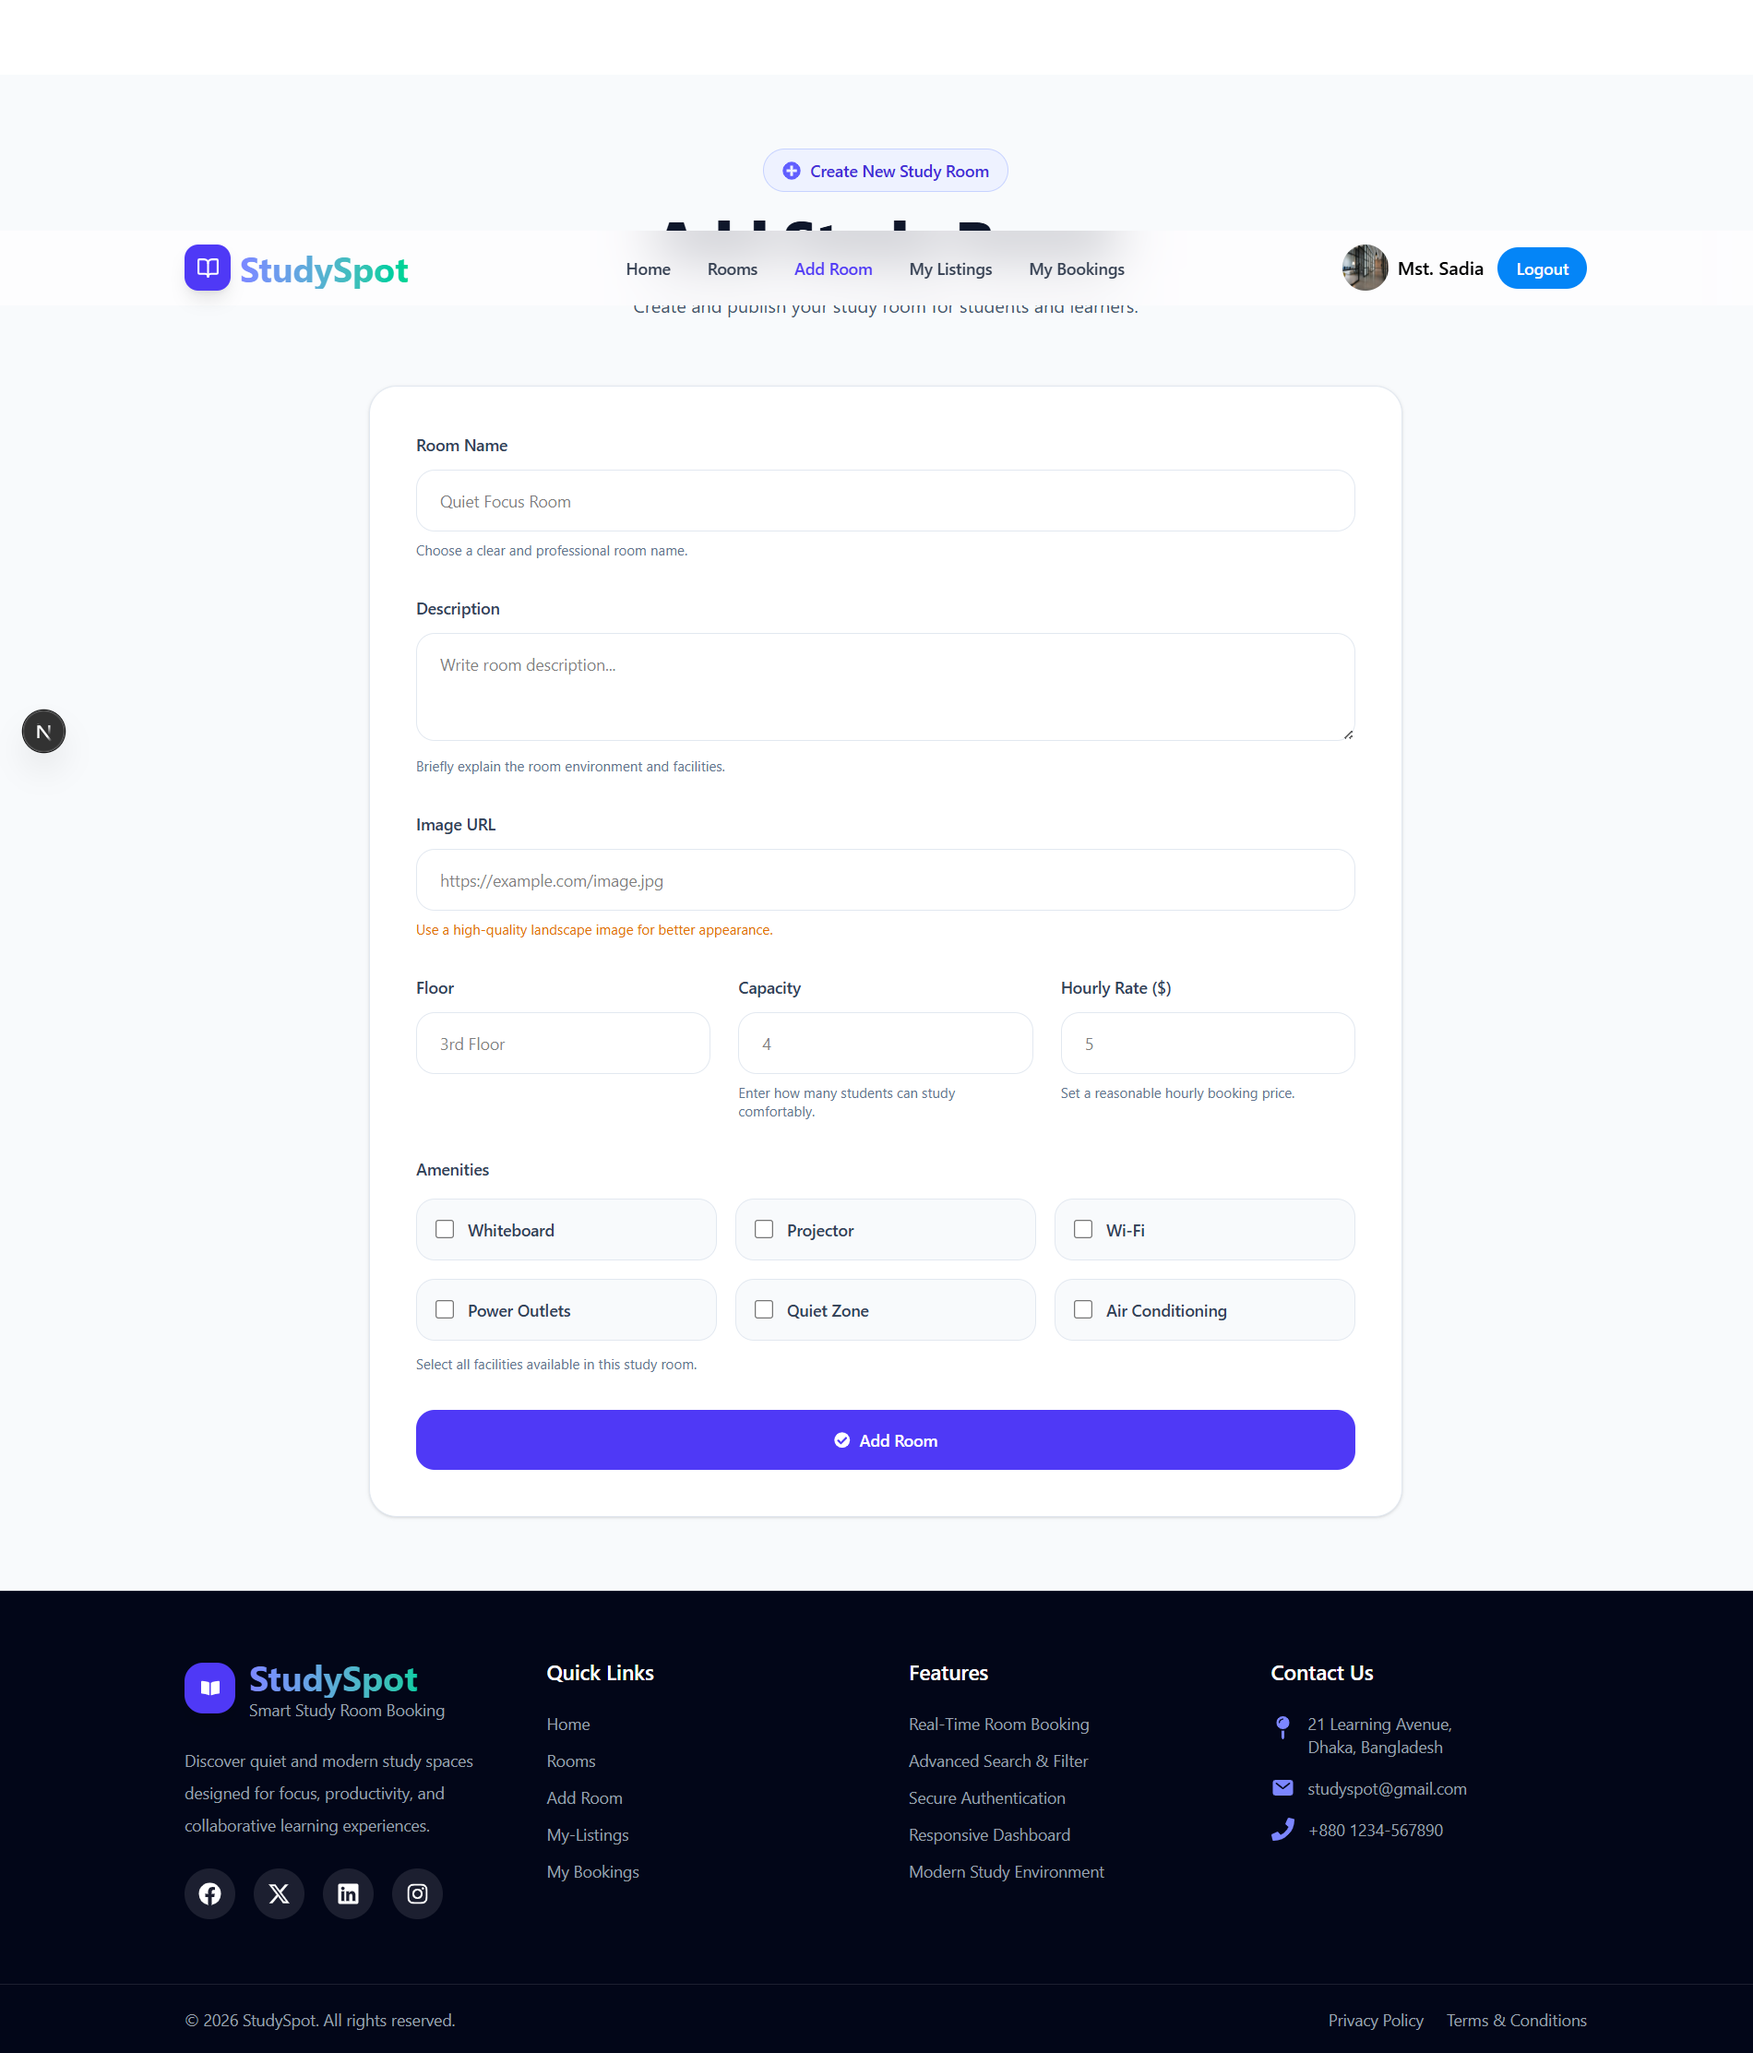
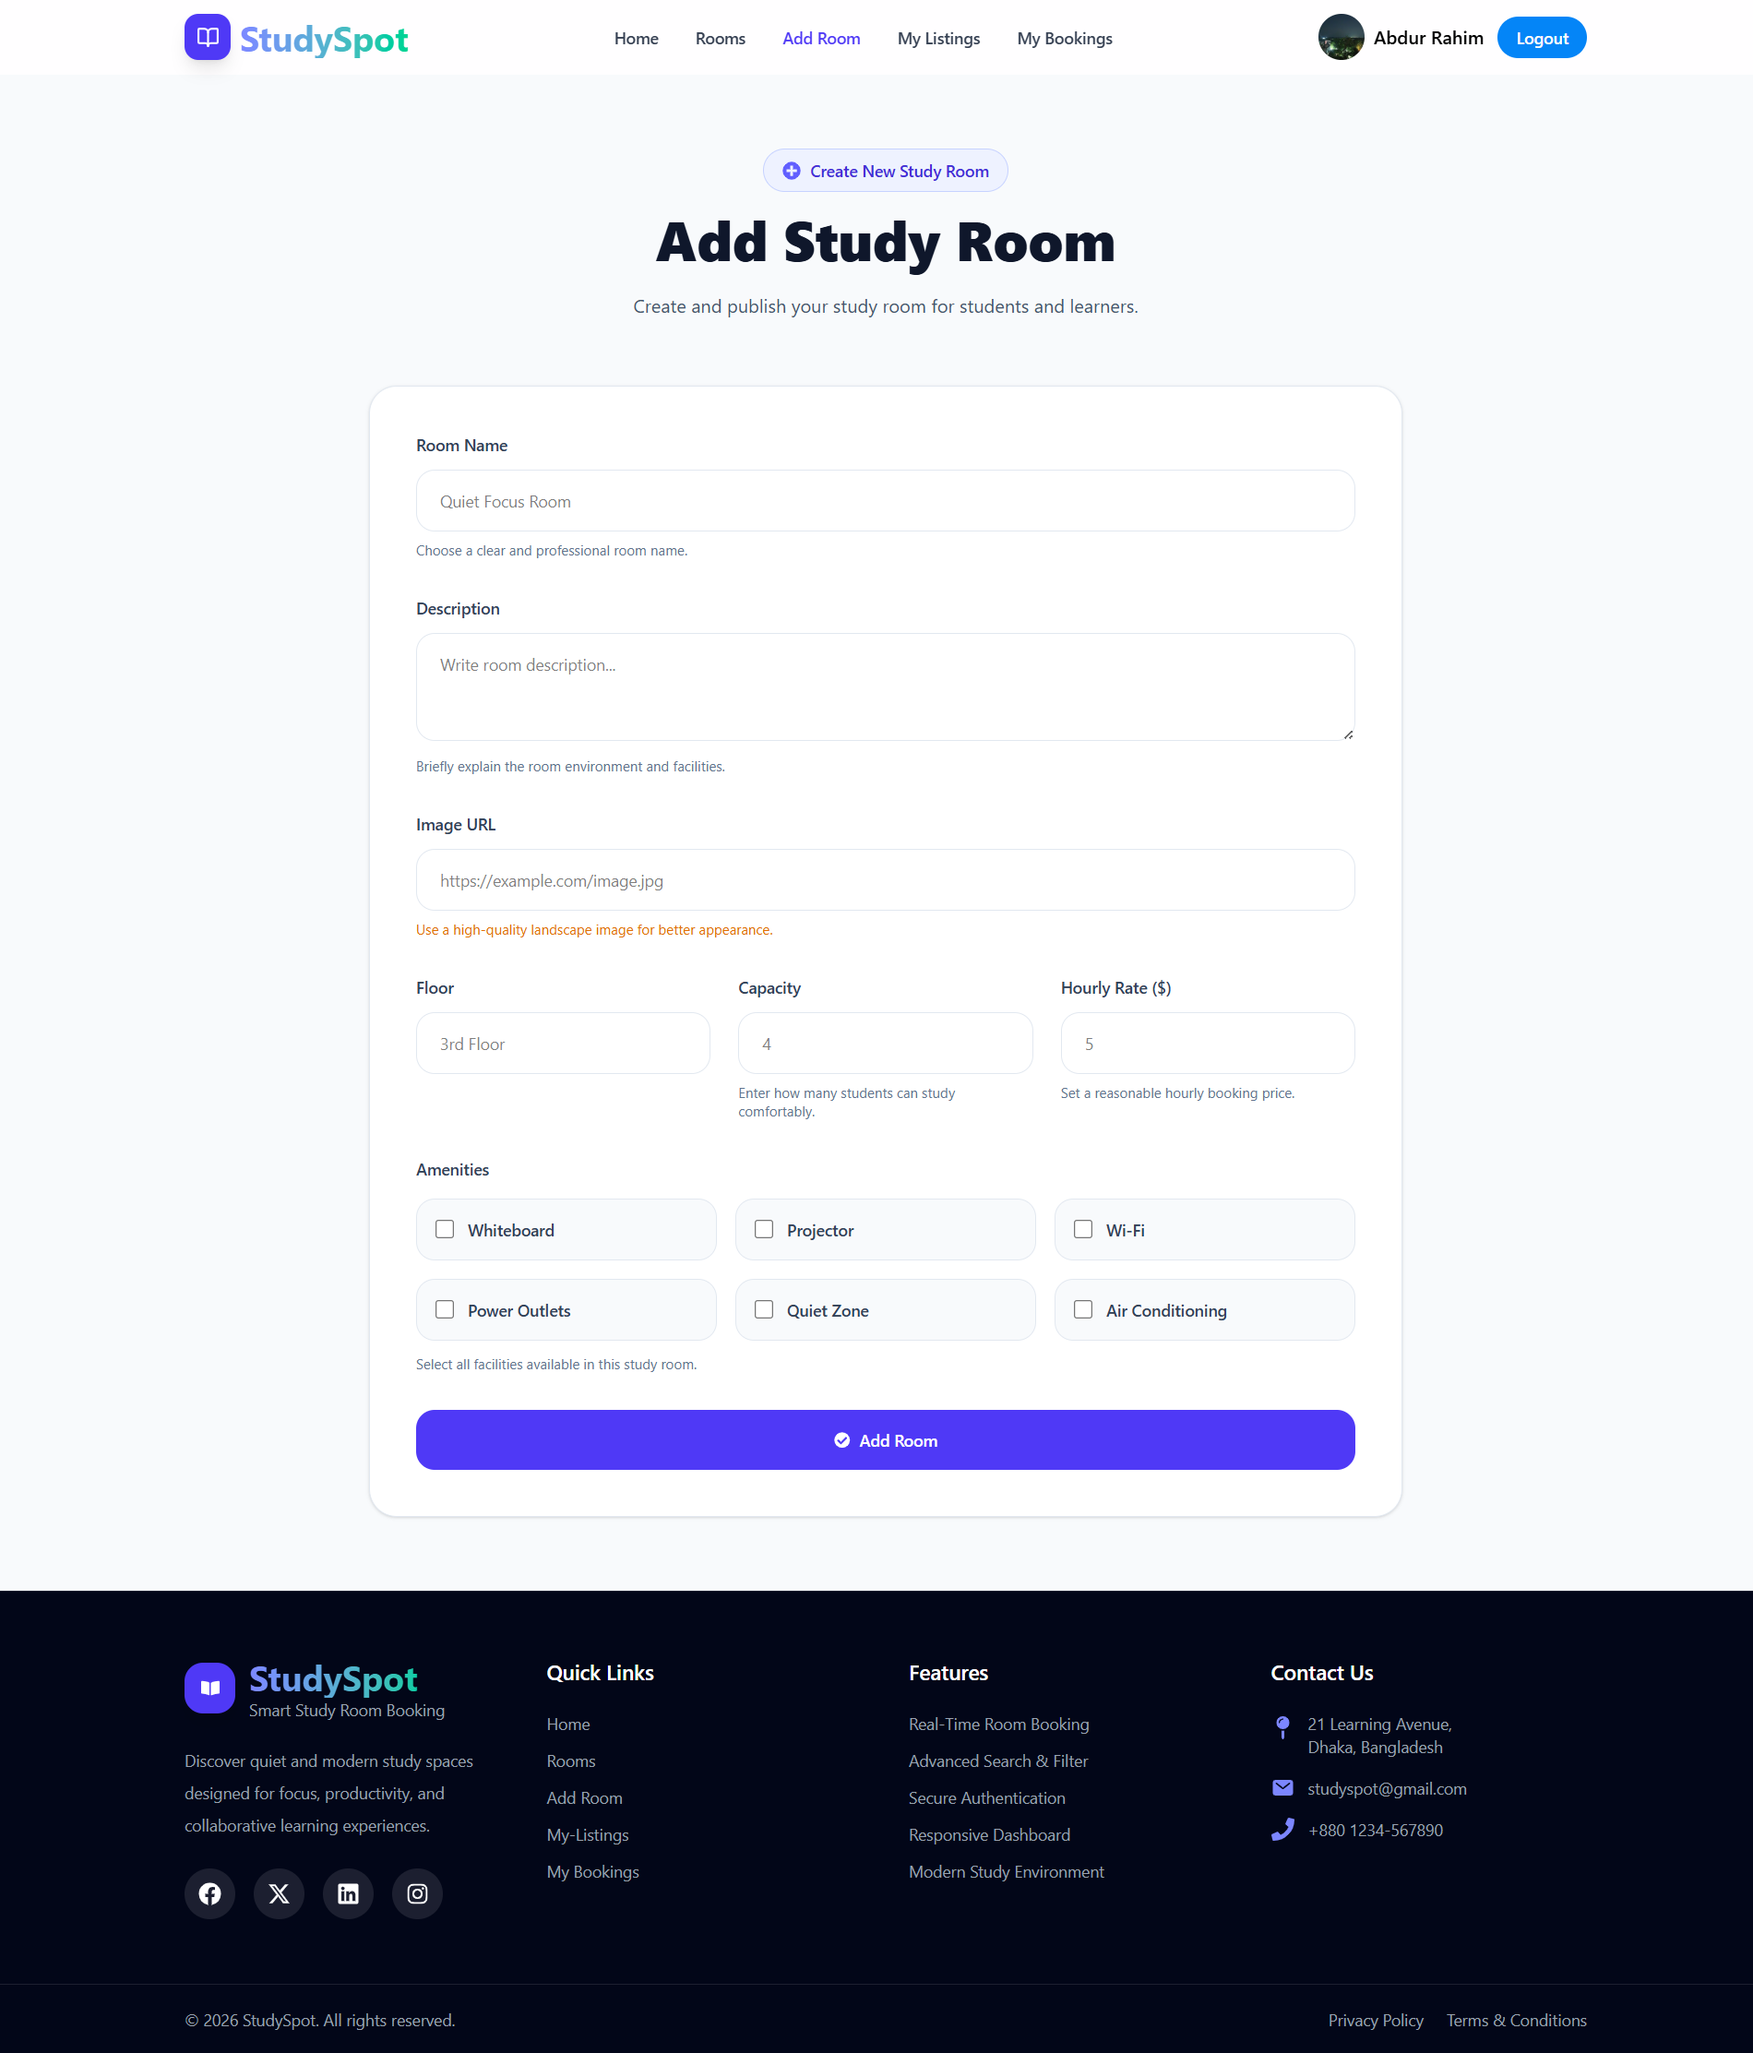
updated readme.md

diff --git a/README.md b/README.md
@@ -1,7 +1,3 @@
-<p align="center">
-  <img src="https://raw.githubusercontent.com/Abdur-Rahim-web/studyspot-client/main/screenshots/home-page.png" width="100%" alt="StudySpot Banner" />
-</p>
-
 <h1 align="center">🏫 StudySpot</h1>
 
 <p align="center">
@@ -13,6 +9,8 @@
   <a href="https://github.com/Abdur-Rahim-web/studyspot-client">💻 Client Repo</a> •
   <a href="https://github.com/Abdur-Rahim-web/studyspot-server">🛠 Server Repo</a>
 </p>
+
+![img](./public/screenshots/hero.png)
 
 ---
 
@@ -86,69 +84,57 @@ It ensures secure authentication, role-based access control, and conflict-free b
 ## 📸 Screenshots
 
 ### 🏠 Home Page
-<p align="center">
-  <img src="https://raw.githubusercontent.com/Abdur-Rahim-web/studyspot-client/main/screenshots/home-page.png" width="90%" />
-</p>
+![img](./public/screenshots/home-page.png)
 
 ---
 
 ### 🏢 All Rooms Page
-<p align="center">
-  <img src="https://raw.githubusercontent.com/Abdur-Rahim-web/studyspot-client/main/screenshots/all-room-page.png" width="90%" />
-</p>
+![img](./public/screenshots/all-room-page.png)
 
 ---
 
 ### 🏢 Room Details Page
-<p align="center">
-  <img src="https://raw.githubusercontent.com/Abdur-Rahim-web/studyspot-client/main/screenshots/room-details-page.png" width="90%" />
-</p>
+![img](./public/screenshots/room-details-page.png)
 
 ---
 
 ### ➕ Add Room Page
-<p align="center">
-  <img src="https://raw.githubusercontent.com/Abdur-Rahim-web/studyspot-client/main/screenshots/add-room-page.png" width="90%" />
-</p>
+![img](./public/screenshots/add-room-page.png)
 
 ---
 
 ### 📅 My Listings Page
-<p align="center">
-  <img src="https://raw.githubusercontent.com/Abdur-Rahim-web/studyspot-client/main/screenshots/my-listings-page.png" width="90%" />
-</p>
+![img](./public/screenshots/my-listings-page.png)
 
 ---
 
 ### 📌 My Bookings Page
-<p align="center">
-  <img src="https://raw.githubusercontent.com/Abdur-Rahim-web/studyspot-client/main/screenshots/my-bookings-page.png" width="90%" />
-</p>
+![img](./public/screenshots/my-bookings-page.png)
 
 ---
 
 ## 🚀 Installation
 
 ### Client Setup
-bash
+```
 git clone https://github.com/Abdur-Rahim-web/studyspot-client
 cd studyspot-client
 npm install
 npm run dev
-
+```
 ---
 
 ### Server Setup
-bash
+```
 git clone https://github.com/Abdur-Rahim-web/studyspot-server
 cd studyspot-server
 npm install
 npm start
-
+```
 ---
 
 ## 👨💻 Developer
 
-Abdur Rahim
-Junior Full Stack Developer
-GitHub: https://github.com/Abdur-Rahim-web
+**Abdur Rahim**
+- Junior Frontend Developer
+- GitHub: https://github.com/Abdur-Rahim-web
